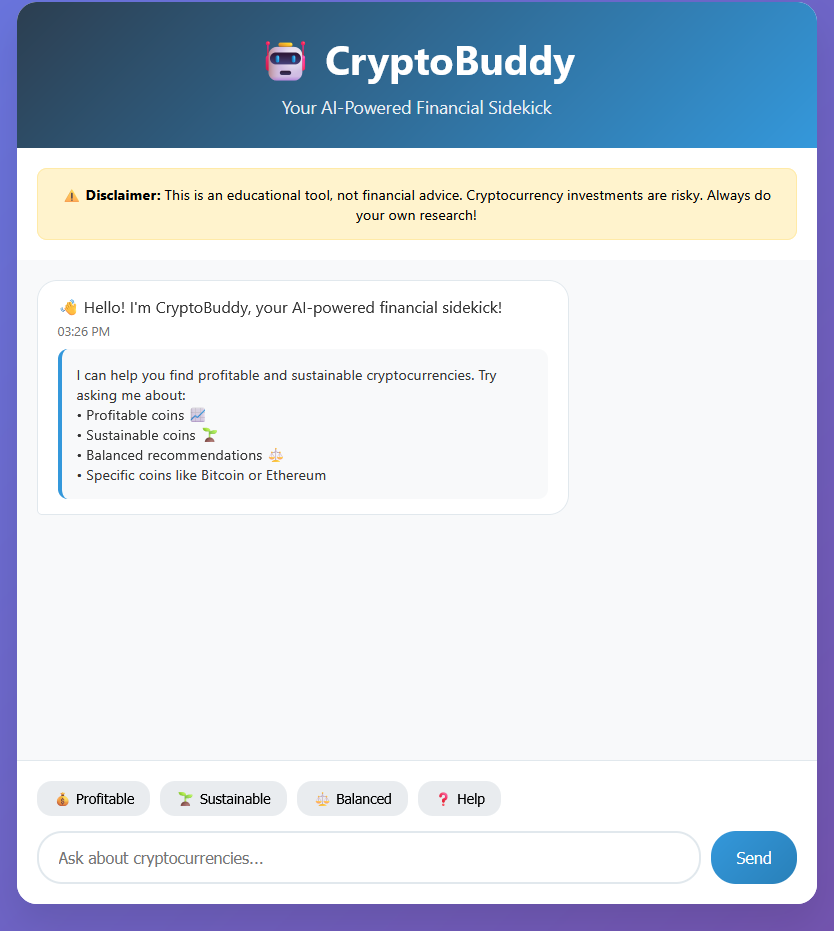
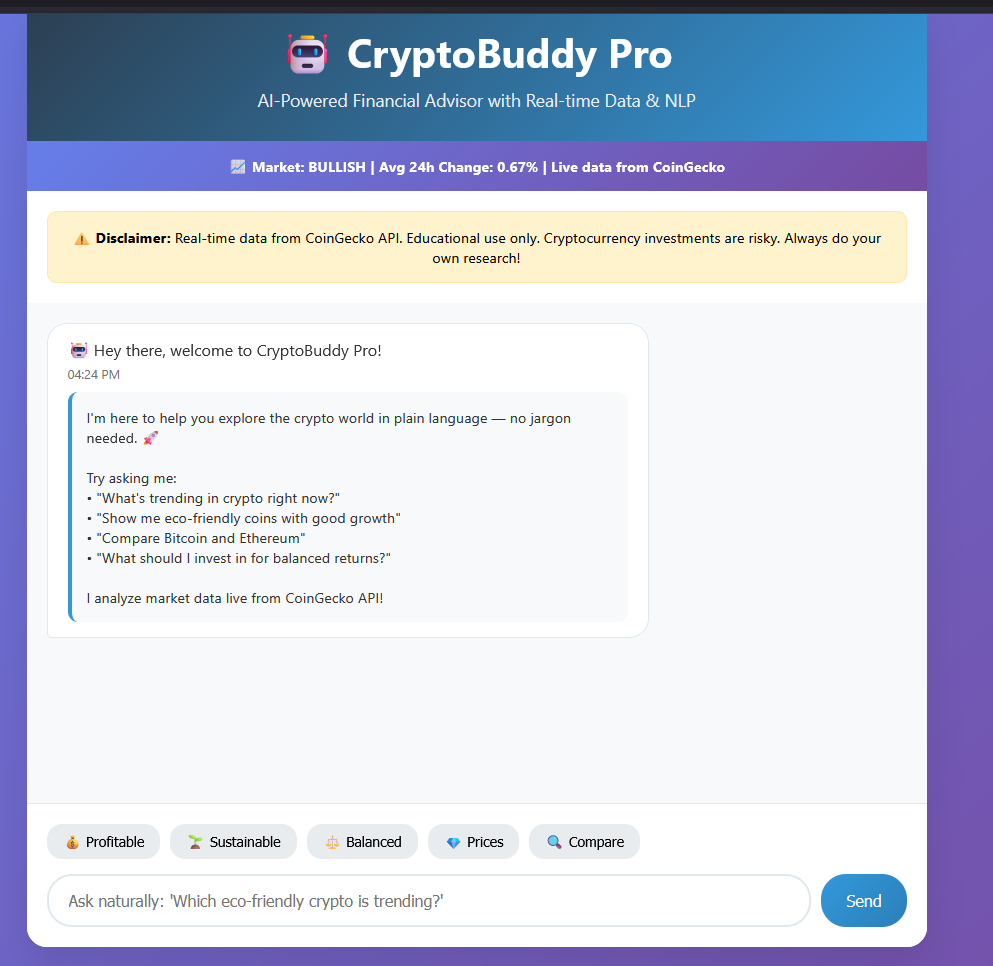
Update README and index.html for improved chatbot interface and welcome message

Changed region(s): [[0.0, 0.0, 1.0, 0.9968]]

diff --git a/templates/index.html b/templates/index.html
@@ -430,8 +430,16 @@
         setTimeout(() => {
           addMessage(
             "bot",
-            "🤖 Welcome to CryptoBuddy Pro!",
-            'I now understand natural language and provide **real-time data**! 🚀\n\nTry asking me:\n• "What\'s trending in crypto right now?"\n• "Show me eco-friendly coins with good growth"\n• "Compare Bitcoin and Ethereum"\n• "What should I invest in for balanced returns?"\n\nI analyze market data live from CoinGecko API!',
+            "🤖 Hey there, welcome to CryptoBuddy Pro!",
+            `I'm here to help you explore the crypto world in plain language — no jargon needed. 🚀
+
+Try asking me:
+• "What's trending in crypto right now?"
+• "Show me eco-friendly coins with good growth"
+• "Compare Bitcoin and Ethereum"
+• "What should I invest in for balanced returns?"
+
+I analyze market data live from CoinGecko API!`,
             new Date().toLocaleTimeString([], {
               hour: "2-digit",
               minute: "2-digit",

diff --git a/README.md b/README.md
@@ -21,7 +21,7 @@ CryptoBuddy Pro is an advanced AI-powered chatbot designed to guide users throug
 
 ### Chatbot Interface
 
-![Chatbot Interface](screenshots/chatbot-interface.png)
+![Chatbot Interface](static/screenshots/chatbot-interface.png)
 _Caption_: CryptoBuddy Pro's interface with real-time market status and NLP-driven responses. 💬💰
 
 ### Python Backend (app.py)
